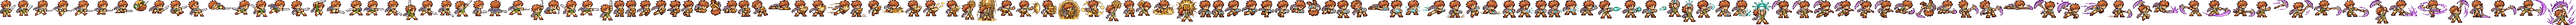
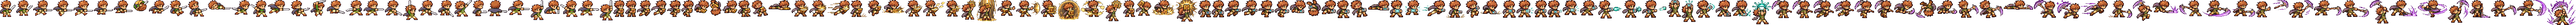
阿远新版切图：身体里被抠空的小缝补回，不再透出背景
Claude-Session: https://claude.ai/code/session_015MetZpZfHySQWDEPDS41Tu

diff --git a/tools/pixel/build_heroM2.py b/tools/pixel/build_heroM2.py
@@ -29,6 +29,9 @@ def frames(path):
         for k in sorted(cells):
             grp=cells[k]; y0=min(g[0][0].start for g in grp); y1=max(g[0][0].stop for g in grp); x0=min(g[0][1].start for g in grp); x1=max(g[0][1].stop for g in grp)
             m=np.isin(L[y0:y1,x0:x1],[g[1] for g in grp])&fg[y0:y1,x0:x1]
+            h=ndimage.binary_fill_holes(m)&~m; hl,hn=ndimage.label(h)   # 11/27 身体里被抠空的小缝（披风和手臂之间等）补回来，不透出背景
+            for j in range(1,hn+1):
+                if (hl==j).sum()<700: m|=hl==j
             im=Image.fromarray(np.dstack([a[y0:y1,x0:x1],np.where(m,255,0)]).astype(np.uint8),'RGBA'); out.append(im.crop(im.getbbox()))
     return out
 def body_h(im):
